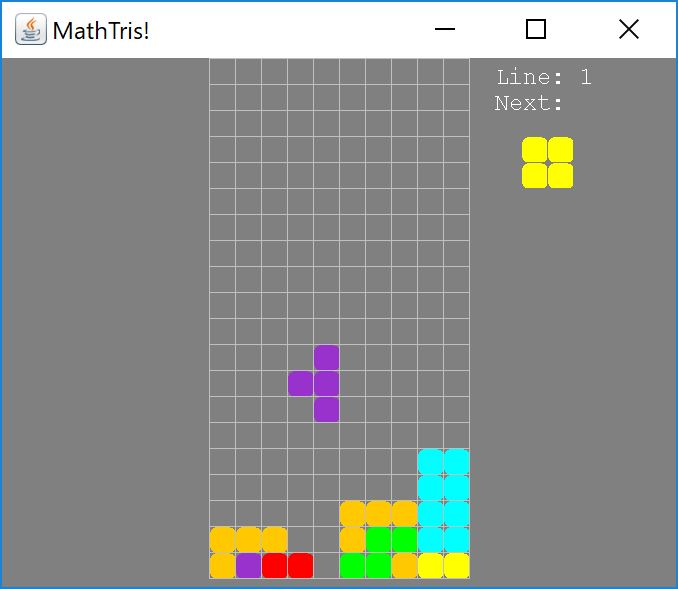
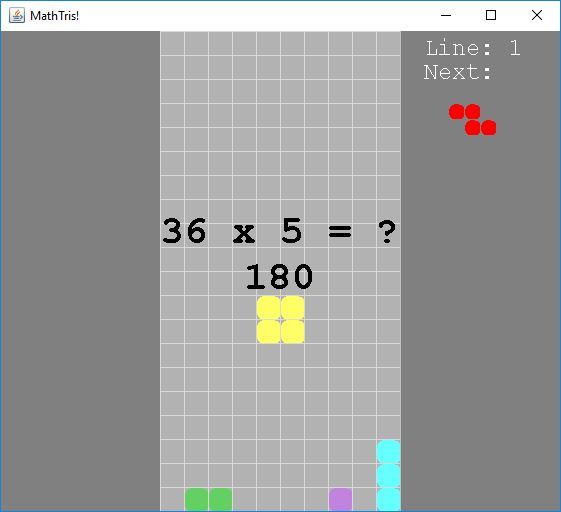
Equation to unlock the movement

diff --git a/src/game/Board.java b/src/game/Board.java
@@ -2,6 +2,7 @@ package game;
 
 import java.awt.Color;
 import java.awt.Font;
+import java.awt.FontMetrics;
 import java.awt.Graphics;
 import java.awt.Rectangle;
 import java.awt.event.ActionEvent;
@@ -16,6 +17,7 @@ import javax.swing.JPanel;
 import javax.swing.Timer;
 
 import game.Shape.TileShape;
+import generator.EquationGenerator;
 
 public class Board extends JPanel implements KeyListener {
 	
@@ -23,6 +25,10 @@ public class Board extends JPanel implements KeyListener {
 	private Timer timer;
 	private Vector<Vector<Pair<Boolean, Color>>> gBoard;
 	private int line;
+	private Mode mode;
+	private EquationGenerator equation;
+	private String answer;
+	private boolean isAnswered;
 	
 	enum Move {
 		LEFT,
@@ -35,6 +41,10 @@ public class Board extends JPanel implements KeyListener {
 	public Board() {
 		super();
 		line = 0;
+		mode = Mode.MATH;
+		equation = new EquationGenerator();
+		answer = "";
+		isAnswered = false;
 		// The grid of the game
 		gBoard = new Vector<>();
 		// Init rows
@@ -73,7 +83,7 @@ public class Board extends JPanel implements KeyListener {
 			s = new Shape(Color.red, TileShape.ZTile.getCoords());
 			break;
 		case 1:
-			s = new Shape(Color.green, TileShape.STile.getCoords());
+			s = new Shape(Color.green.darker(), TileShape.STile.getCoords());
 			break;
 		case 2:
 			s = new Shape(Color.blue, TileShape.JTile.getCoords());
@@ -94,6 +104,9 @@ public class Board extends JPanel implements KeyListener {
 			s = new Shape(Color.yellow, TileShape.SquareTile.getCoords());
 			break;
 		}
+		equation.generate();
+		answer = "";
+		isAnswered = false;
 		// Set the initial position of the generated shape
 		// x = (xcase - TileShape xcoord size)/2
 		// y = 0
@@ -297,6 +310,27 @@ public class Board extends JPanel implements KeyListener {
 				}
 			}
 		}
+		
+		if (mode == Mode.MATH && !isAnswered) {
+			// Draw the math equation
+			Color question_color = new Color(255, 255, 255, 100);
+			g.setColor(question_color);
+			g.fillRect(xPlayBegin, 0, xmax, ymax);
+			Font question_font = new Font(f.getName(), Font.BOLD, f.getSize());
+			FontMetrics fm = g.getFontMetrics(question_font);
+			int size = question_font.getSize();
+			int y_pos = ymax/2 - fm.getHeight();
+			while (fm.stringWidth(equation.toString()) < xmax) {
+				fm = g.getFontMetrics(question_font.deriveFont((float)size++));
+			}
+			size--;
+			g.setColor(Color.black);
+			g.setFont(question_font.deriveFont((float)size));
+			g.drawString(equation.toString(), xPlayBegin, y_pos);
+			// Draw the answer
+			int answer_width = fm.stringWidth(answer);
+			g.drawString(answer, xPlayBegin+(xmax/2-answer_width/2), y_pos+fm.getHeight());
+		}
 	}
 
 	@Override
@@ -304,28 +338,48 @@ public class Board extends JPanel implements KeyListener {
 		if (timer.isRunning()) {
 			switch (e.getKeyCode()) {
 			case KeyEvent.VK_LEFT:
-				if (canMove(Move.LEFT))
+				if (canMove(Move.LEFT) && isAnswered)
 					currentShape.moveLeft();
 				break;
 			case KeyEvent.VK_RIGHT:
-				if (canMove(Move.RIGHT))
+				if (canMove(Move.RIGHT) && isAnswered)
 					currentShape.moveRight();
 				break;
 			case KeyEvent.VK_UP:
-				if (canMove(Move.R_LEFT))
+				if (canMove(Move.R_LEFT) && isAnswered)
 					currentShape.rotateLeft();
 				break;
 			case KeyEvent.VK_DOWN:
-				if (canMove(Move.R_RIGHT))
+				if (canMove(Move.R_RIGHT) && isAnswered)
 					currentShape.rotateRight();
 				break;
 			case KeyEvent.VK_SPACE:
-				while (canMove(Move.DOWN)) {
+				while (canMove(Move.DOWN) && isAnswered) {
 					currentShape.moveDown();
 				}
 				break;
 			case KeyEvent.VK_P:
 				timer.stop();
+				break;
+			case KeyEvent.VK_0:
+			case KeyEvent.VK_1:
+			case KeyEvent.VK_2:
+			case KeyEvent.VK_3:
+			case KeyEvent.VK_4:
+			case KeyEvent.VK_5:
+			case KeyEvent.VK_6:
+			case KeyEvent.VK_7:
+			case KeyEvent.VK_8:
+			case KeyEvent.VK_9:
+				answer += String.valueOf(e.getKeyChar());
+				break;
+			case KeyEvent.VK_BACK_SPACE:
+				if (answer.length()>0) {
+					answer = answer.substring(0, answer.length()-1);
+				}
+				break;
+			case KeyEvent.VK_ENTER:
+				isAnswered = equation.answer(Integer.parseInt(answer));
 				break;
 			default:
 				break;

diff --git a/src/game/Mode.java b/src/game/Mode.java
@@ -1,0 +1,8 @@
+package game;
+
+public enum Mode {
+	
+	CLASSIC,
+	MATH;
+
+}

diff --git a/README.md b/README.md
@@ -9,6 +9,7 @@ The goal is to solve a mental calculation to be able to move the tile.
 * [x] Fast down
 * [x] Rotate Left/Right (But you can participate by improving the algorithm)
 * [x] Line count
+* [x] Equation mode (default)
 * [ ] End game
 * [ ] Score
 * [ ] Game settings
